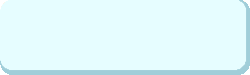
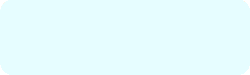
Update button graphics and add sand to other scenes

Changed region(s): [[0.0, 0.0, 1.0, 1.0]]

diff --git a/src/Objects/MenuSand.js b/src/Objects/MenuSand.js
@@ -3,11 +3,12 @@ import 'phaser';
 import Util from '../Util';
 
 export default class MenuSand extends Phaser.GameObjects.Container {
-    constructor(scene) {
+    constructor(scene, sandSpawn) {
         super(scene);
         this.scene = scene;
         this.w = this.scene.cameras.main.width;
         this.h = this.scene.cameras.main.height;
+        this.sandSpawn = sandSpawn;
 
         // can specify the resolution of the sand grains
         this.grainSize = 5;
@@ -62,11 +63,18 @@ export default class MenuSand extends Phaser.GameObjects.Container {
      */
     touchesButton(grain) {
         let overlaps =  Phaser.Geom.Rectangle.Overlaps;
-        return Util.any([
-            overlaps(grain.getBounds(), this.scene.gameButton.getBounds()),
-            overlaps(grain.getBounds(), this.scene.optionsButton.getBounds()),
-            overlaps(grain.getBounds(), this.scene.aboutButton.getBounds())
-        ]);
+        if (this.scene.gameButton!==undefined) {
+            return Util.any([
+                overlaps(grain.getBounds(), this.scene.gameButton.getBounds()),
+                overlaps(grain.getBounds(), this.scene.optionsButton.getBounds()),
+                overlaps(grain.getBounds(), this.scene.aboutButton.getBounds())
+            ]);
+        }
+        else {
+            return Util.any([
+                overlaps(grain.getBounds(), this.scene.menuButton.getBounds()),
+            ]);
+        }
     };
 
     /**
@@ -161,9 +169,9 @@ export default class MenuSand extends Phaser.GameObjects.Container {
      */
     addSand() {
         if (Math.random() < 0.5) {
-            let half = Math.floor((this.w / this.grainSize) / 2);
+            let x = Math.floor((this.w / this.grainSize) * (this.sandSpawn / this.w));
             let offset = Math.floor(Math.random() * 3);
-            this.set(half + offset, 0, "SAND");
+            this.set(x + offset, 0, "SAND");
         }
     }
 

diff --git a/src/Scenes/TitleScene.js b/src/Scenes/TitleScene.js
@@ -15,7 +15,7 @@ export default class TitleScene extends Phaser.Scene {
         // Play
         this.gameButton = new Button(
             this,
-            config.width * 0.6 + 5,
+            config.width * 0.6 + 7,
             config.height * 0.5 - 100,
             'Button',
             'ButtonPressed',
@@ -26,7 +26,7 @@ export default class TitleScene extends Phaser.Scene {
         // Options
         this.optionsButton = new Button(
             this,
-            config.width * 0.35 - 5,
+            config.width * 0.35 - 3,
             config.height * 0.5 + 50,
             'Button',
             'ButtonPressed',
@@ -37,7 +37,7 @@ export default class TitleScene extends Phaser.Scene {
         // About
         this.aboutButton = new Button(
             this,
-            config.width * 0.6 + 5,
+            config.width * 0.6 + 7,
             config.height * 0.5 + 200,
             'Button',
             'ButtonPressed',
@@ -46,7 +46,7 @@ export default class TitleScene extends Phaser.Scene {
         );
 
         // add falling sand
-        this.menuSand = new MenuSand(this);
+        this.menuSand = new MenuSand(this, config.width/2);
 
         this.model = this.sys.game.globals.model;
 

diff --git a/src/Scenes/AboutScene.js b/src/Scenes/AboutScene.js
@@ -1,5 +1,6 @@
 import 'phaser';
 import Button from '../Objects/Button';
+import MenuSand from '../Objects/MenuSand';
 
 export default class AboutScene extends Phaser.Scene {
     constructor () {
@@ -14,6 +15,8 @@ export default class AboutScene extends Phaser.Scene {
 
         this.add.text(config.width*0.1, config.height*0.11, 'About Page \n\nSpace to write about your game \nor a how to play. \n', { align: 'center', fontSize: '25px', fill: '#000' });
         this.menuButton = new Button(this, 400, 480, 'Button', 'ButtonPressed', 'Menu', 'Title');
+
+        this.menuSand = new MenuSand(this, config.width * 0.7);
 
     }
 

diff --git a/src/Scenes/OptionsScene.js b/src/Scenes/OptionsScene.js
@@ -1,5 +1,6 @@
 import 'phaser';
 import Button from '../Objects/Button';
+import MenuSand from '../Objects/MenuSand';
 
 export default class OptionsScene extends Phaser.Scene {
     constructor () {
@@ -37,6 +38,8 @@ export default class OptionsScene extends Phaser.Scene {
 
         this.menuButton = new Button(this, 400, 500, 'Button', 'ButtonPressed', 'Menu', 'Title');
         this.updateAudio();
+
+        this.menuSand = new MenuSand(this, config.width * 0.7);
     }
 
     updateAudio() {

diff --git a/src/Scenes/PreloaderScene.js b/src/Scenes/PreloaderScene.js
@@ -88,6 +88,7 @@ export default class PreloaderScene extends Phaser.Scene {
         this.load.image('checkedBox', 'assets/checked1.png');
         this.load.image('Logo', 'assets/logoBigger.png');
 
+        this.load.image('Death', 'assets/DeathSmall.png');
         this.load.image('Hourglass1', 'assets/hourglass1.png');
 
         // remove progress bar when complete

diff --git a/src/Scenes/GameScene.js b/src/Scenes/GameScene.js
@@ -11,6 +11,7 @@ export default class GameScene extends Phaser.Scene {
     {
         //  A simple background for our game
         this.add.image(400, 300, 'background');
+        this.add.image(400, 300, 'Death');
   
         this.testHourglass = new Hourglass(this, 100, 100, 'Hourglass1', 30);
     }
